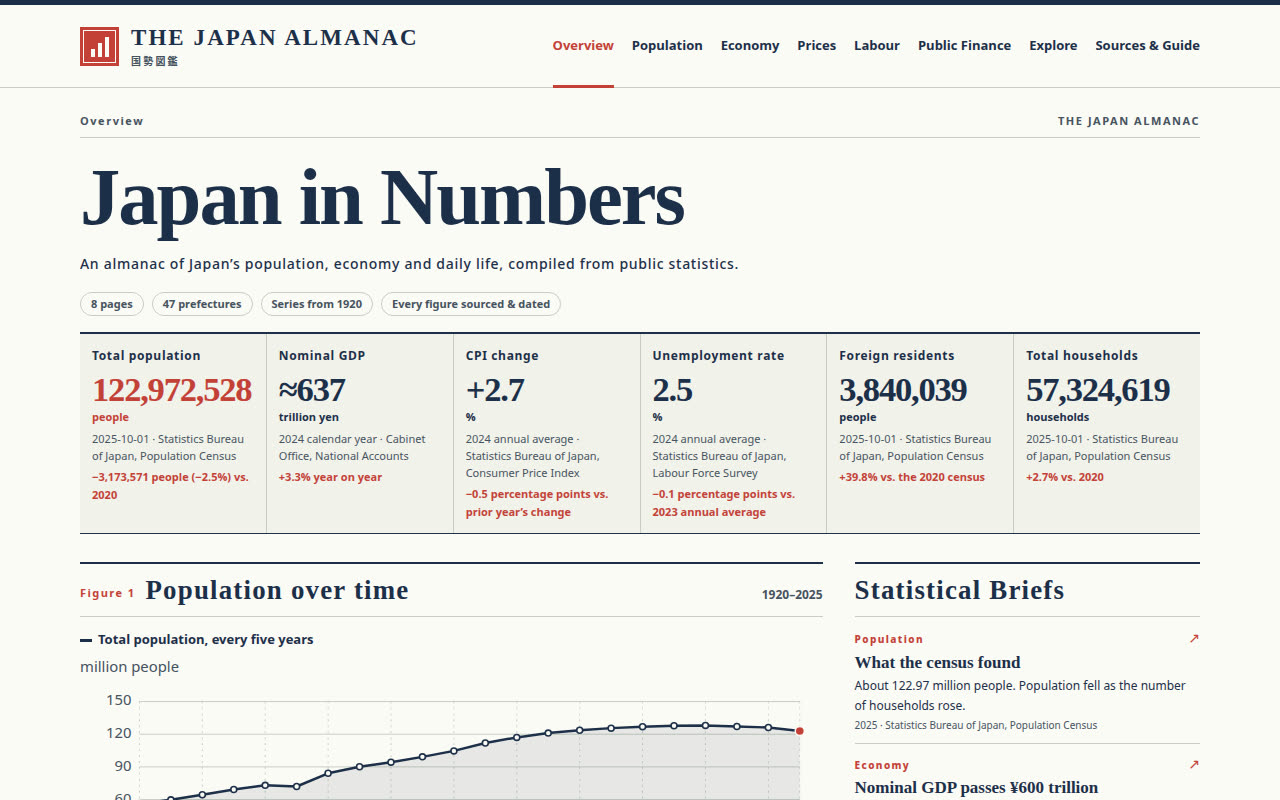
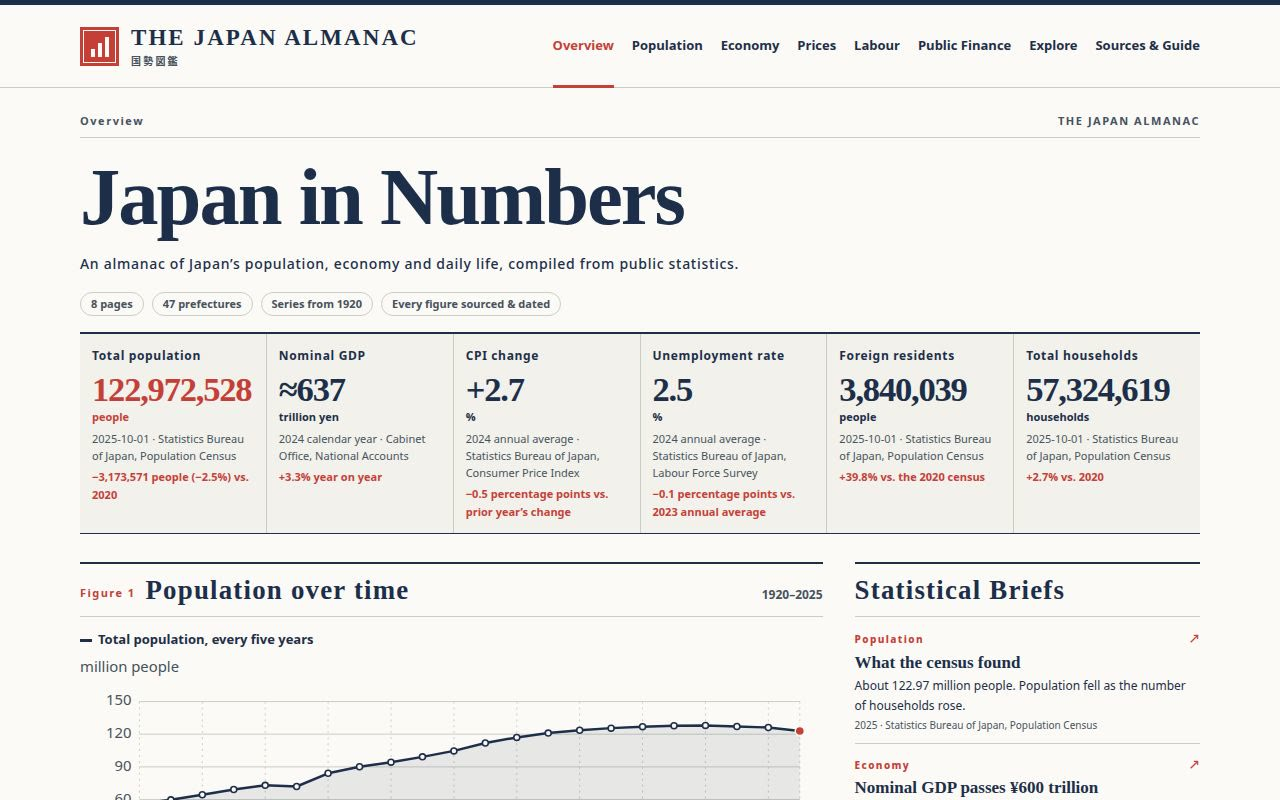
国勢図鑑: Japanese national statistics portal for make.fun bounty
Built by an AI agent (Codex gpt-6.2-sol) in a fresh session after the
competition opened; reviewed by gpt-6.2-astra before submission.

diff --git a/app/views.js b/app/views.js
@@ -69,12 +69,59 @@ export function home() {
     </section>`;
 }
 
+// Each row runs west to east. Empty cells separate the islands and coastlines.
+const prefectureGrid = [
+  [13, 'Hokkaido'],
+  [12, 'Aomori'],
+  [11, 'Akita', 'Iwate'],
+  [11, 'Yamagata', 'Miyagi'],
+  [10, 'Niigata', 'Fukushima'],
+  [8, 'Ishikawa', 'Toyama', 'Nagano', 'Gunma', 'Tochigi', 'Ibaraki'],
+  [3, 'Shimane', 'Tottori', 'Hyogo', 'Kyoto', 'Shiga', 'Fukui', 'Gifu', null, 'Saitama'],
+  [2, 'Yamaguchi', 'Hiroshima', 'Okayama', 'Osaka', 'Nara', 'Mie', null, 'Aichi', null, 'Yamanashi', 'Tokyo', 'Chiba'],
+  [1, 'Saga', 'Fukuoka', 'Oita', 'Ehime', 'Kagawa', 'Wakayama', null, null, null, 'Shizuoka', null, 'Kanagawa'],
+  [1, 'Nagasaki', 'Kumamoto', 'Miyazaki', 'Kochi', 'Tokushima'],
+  [2, 'Kagoshima'],
+  [1, 'Okinawa'],
+];
+const populationBands = [
+  [1_000_000, 'Under 1M'],
+  [2_000_000, '1M to <2M'],
+  [5_000_000, '2M to <5M'],
+  [10_000_000, '5M to <10M'],
+  [Infinity, '10M and over'],
+];
+
+function prefectureMap() {
+  const populations = new Map(prefectures);
+  const tiles = prefectureGrid.flatMap(([start, ...names], row) => names.map((name, offset) => {
+    if (!name) return '';
+    const population = populations.get(name);
+    const band = populationBands.findIndex(([limit]) => population < limit);
+    return `<button type="button" class="pref-tile" data-prefecture="${name}" data-band="${band}" aria-pressed="false" aria-controls="pref-rows" style="grid-area:${row + 1}/${start + offset}">
+      <strong>${name}</strong><span>${format(population)}</span>
+    </button>`;
+  })).join('');
+  return `<section class="block prefecture-map" aria-label="Prefectures by population map">
+    ${section('Map 1', 'Prefectures by population (tile grid)', prefectureYear)}
+    <div class="pref-map-key">
+      <strong>Population</strong>
+      <ul aria-label="Population ranges">${populationBands.map(([, label], band) =>
+        `<li><span class="pref-map-swatch" data-band="${band}" aria-hidden="true"></span>${label.replace('<', '&lt;')}</li>`).join('')}</ul>
+    </div>
+    <div class="pref-map-scroll" role="region" aria-label="Japan prefecture tile grid" tabindex="0">
+      <div class="pref-map-grid">${tiles}</div>
+    </div>
+    ${note('Source: Statistics Bureau of Japan, 2020 Population Census.')}
+  </section>`;
+}
+
 export function prefectureRows(query = '', ascending = false) {
   const term = query.normalize('NFKC').trim().toLowerCase();
   const rows = prefectures.map(([name,pop],i) => ({ name, pop, rank:i+1 }))
     .filter(({name}) => name.toLowerCase().includes(term));
   if (ascending) rows.reverse();
-  return rows.length ? rows.map(({name,pop,rank}) => `<tr><td>${rank}</td><th scope="row">${name}</th><td>${format(pop)}</td><td>${prefectureYear}</td></tr>`).join('')
+  return rows.length ? rows.map(({name,pop,rank}) => `<tr data-prefecture="${name}"><td>${rank}</td><th scope="row">${name}</th><td>${format(pop)}</td><td>${prefectureYear}</td></tr>`).join('')
     : '<tr><td colspan="4" class="empty">No matching prefectures. Try part of a prefecture name.</td></tr>';
 }
 
@@ -111,6 +158,7 @@ export function population() {
       </aside>
     </div>
     <section class="block">${section('Table 2','Births and deaths','2024')}${strip(f.births,f.deaths,f.fertility)}</section>
+    ${prefectureMap()}
     <section class="block">${section('Table 3','Prefectures by population','2020 Population Census')}
       <div class="table-controls"><label>Search prefectures <input id="pref-search" type="search" placeholder="e.g. Tokyo" aria-controls="pref-rows"></label></div>
       <table class="numeric"><thead><tr><th scope="col">Rank</th><th scope="col">Prefecture</th><th scope="col" id="population-sort" aria-sort="descending"><button type="button" id="sort-prefs">Population <span>↓</span></button></th><th scope="col">Census year</th></tr></thead>

diff --git a/app/style.css b/app/style.css
@@ -106,6 +106,45 @@ td small { display: block; font-size: 11px; color: var(--slate); }
 input, select { border: 1px solid var(--rule); padding: 8px 12px; background: var(--paper); min-width: min(240px, 100%); font-size: 14px; }
 #sort-prefs { border: 0; background: none; padding: 2px 0; font-weight: 700; }
 #sort-prefs span { color: var(--red); }
+.prefecture-map [data-band="0"] { --tile-fill: color-mix(in oklch, var(--red) 11%, var(--paper)); }
+.prefecture-map [data-band="1"] { --tile-fill: color-mix(in oklch, var(--red) 29%, var(--paper)); }
+.prefecture-map [data-band="2"] { --tile-fill: color-mix(in oklch, var(--red) 47%, var(--paper)); }
+.prefecture-map [data-band="3"] { --tile-fill: var(--red); --tile-ink: white; }
+.prefecture-map [data-band="4"] { --tile-fill: oklch(0.40 0.145 28); --tile-ink: white; }
+.pref-map-key, .pref-map-key ul { display: flex; flex-wrap: wrap; align-items: center; gap: 4px 14px; }
+.pref-map-key { font-size: 12px; }
+.pref-map-key ul { margin: 0; padding: 0; list-style: none; }
+.pref-map-key li { display: flex; align-items: center; gap: 5px; }
+.pref-map-swatch { width: 12px; height: 12px; background: var(--tile-fill); border: 1px solid var(--rule); }
+.pref-map-scroll { overflow-x: auto; margin-block: 8px; }
+.pref-map-grid {
+  display: grid;
+  min-width: 980px;
+  padding: 4px;
+  grid-template-columns: repeat(13, minmax(0, 1fr));
+  grid-auto-rows: 37px;
+  gap: 4px;
+}
+.pref-tile {
+  display: grid;
+  align-content: center;
+  justify-items: center;
+  padding: 0;
+  border: 1px solid color-mix(in oklch, var(--tile-fill) 75%, var(--ink));
+  background: var(--tile-fill);
+  color: var(--tile-ink, var(--ink));
+  font-size: 11px;
+  line-height: 1.3;
+  white-space: nowrap;
+}
+.pref-tile span { font-size: 10px; }
+.pref-tile:hover, .pref-tile:focus-visible, .pref-tile[aria-pressed="true"] {
+  outline: 2px solid var(--ink);
+  outline-offset: 0;
+  z-index: 1;
+}
+#pref-rows .pref-row-highlight { background: color-mix(in oklch, var(--red) 13%, var(--paper)); }
+#pref-rows .pref-row-highlight > :first-child { box-shadow: inset 3px 0 var(--red); }
 .empty { text-align: center !important; padding: 24px; color: var(--slate); }
 .bars { --bar-label: minmax(100px, 1fr); --bar-value: 140px; display: grid; gap: 0; margin: 10px 0 14px; }
 .bar-axis, .bar-row { display: grid; grid-template-columns: var(--bar-label) minmax(0, 3fr); align-items: center; gap: 12px; }

diff --git a/app/main.js b/app/main.js
@@ -35,9 +35,39 @@ function render(focus = false) {
 
 function updatePrefectures() {
   document.querySelector('#pref-rows').innerHTML = views.prefectureRows(document.querySelector('#pref-search').value,ascending);
+  highlightPrefecture();
 }
 
+function highlightPrefecture(tile = main.querySelector('.pref-tile[aria-pressed="true"]')) {
+  const rows = main.querySelectorAll('#pref-rows [data-prefecture]');
+  for (const row of rows) {
+    row.classList.toggle('pref-row-highlight', row.dataset.prefecture === tile?.dataset.prefecture);
+  }
+}
+
+main.addEventListener('pointerover', event => {
+  const tile = event.target.closest('.pref-tile');
+  if (tile) highlightPrefecture(tile);
+});
+main.addEventListener('pointerout', event => {
+  const tile = event.target.closest('.pref-tile');
+  if (tile && !tile.contains(event.relatedTarget)) highlightPrefecture();
+});
+main.addEventListener('focusin', event => {
+  if (event.target.matches('.pref-tile')) highlightPrefecture(event.target);
+});
+main.addEventListener('focusout', event => {
+  if (event.target.matches('.pref-tile')) highlightPrefecture();
+});
+
 document.addEventListener('click', event => {
+  const tile = event.target.closest('.pref-tile');
+  if (tile) {
+    const previous = main.querySelector('.pref-tile[aria-pressed="true"]');
+    previous?.setAttribute('aria-pressed', 'false');
+    if (tile !== previous) tile.setAttribute('aria-pressed', 'true');
+    highlightPrefecture();
+  }
   if (event.target.closest('.menu')) setMenu(mobileNav.hidden);
   if (event.target.closest('#mobile-nav a')) {
     setMenu(false);
